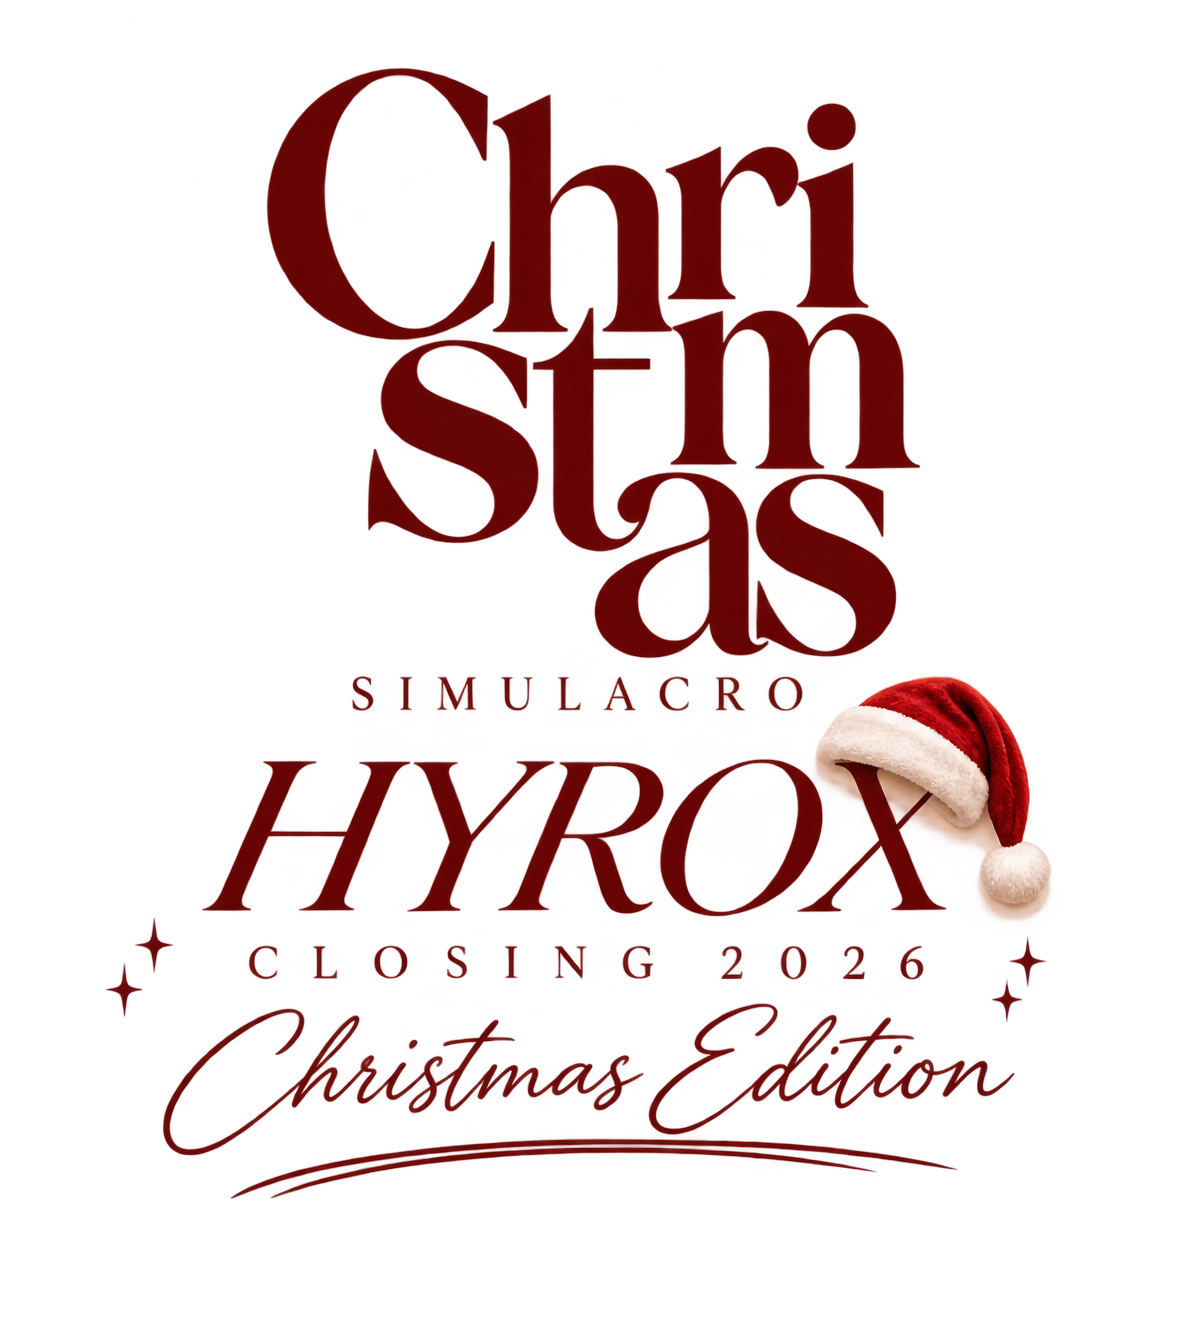
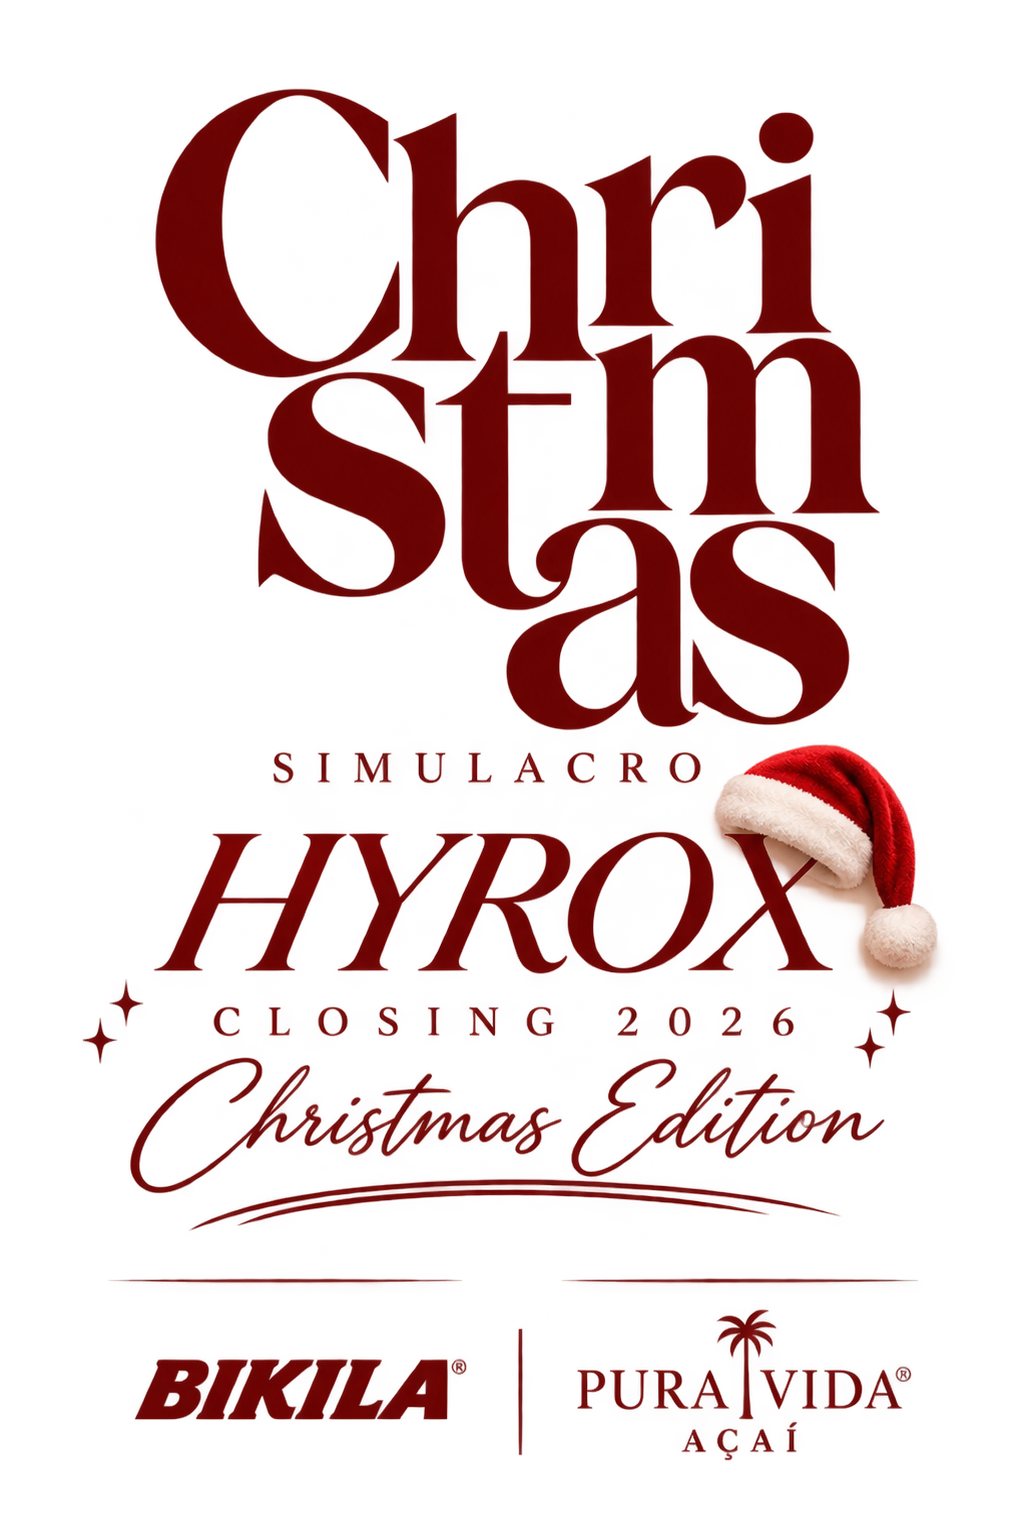
change text

Changed region(s): [[0.0936, 0.0309, 0.9357, 0.9571], [0.0936, 0.6483, 0.1248, 0.6792]]

diff --git a/streamlit_app.py b/streamlit_app.py
@@ -35,31 +35,6 @@ img {
 </style>
 """, unsafe_allow_html=True)
 
-import textwrap
-
-st.markdown(
-    textwrap.dedent("""
-<div style="text-align:center; padding:12px 0 28px 0; color:#780711;">
-
-  <div style="font-size:13px; letter-spacing:3px; font-weight:600; margin-bottom:20px;">
-    CHRISTMAS EDITION · CLOSING 2026
-  </div>
-
-  <div style="font-size:12px; letter-spacing:3px; margin-bottom:16px;">
-    ───── COLABORADORES ─────
-  </div>
-
-  <div style="font-size:22px; font-weight:700; letter-spacing:1px;">
-    BIKILA
-    <span style="color:#C6A18A; padding:0 18px;">|</span>
-    PURA VIDA AÇAÍ
-  </div>
-
-</div>
-"""),
-    unsafe_allow_html=True
-)
-
 #st.markdown(
     #"""
     #<h1 style='text-align:center; margin-top:10px;'>
